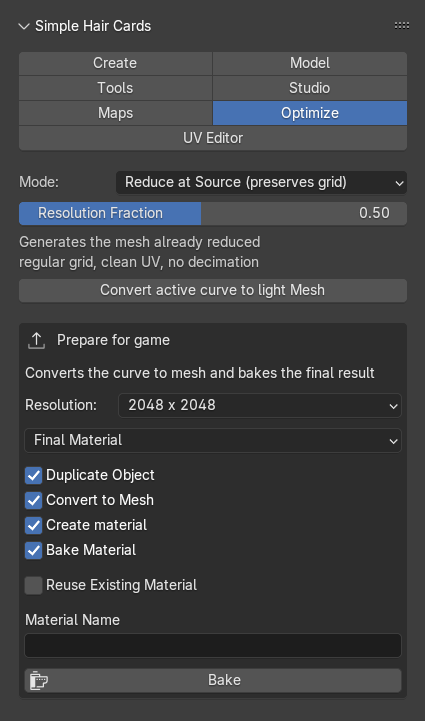
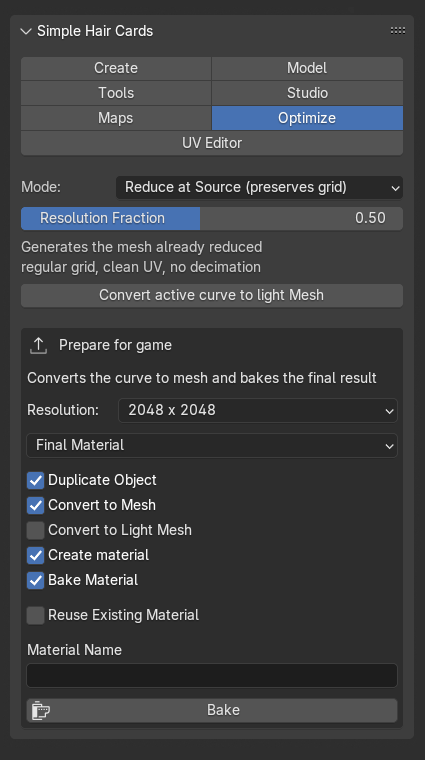
update

diff --git a/index.html b/index.html
@@ -541,8 +541,10 @@
             <ul>
               <li class="lang-pt"><strong>Duplicar objeto</strong> — trabalha numa cópia, sem mexer no original.</li>
               <li class="lang-en"><strong>Duplicate Object</strong> — works on a copy, without touching the original.</li>
-              <li class="lang-pt"><strong>Converter para Mesh</strong> — transforma o objeto (a cópia, ou o original se "Duplicar objeto" estiver desmarcado) em malha de verdade. <strong>Obrigatório</strong> se o objeto começar como Curva — o Bake do Blender só funciona em Mesh com UV, então desmarcar essa opção com "Assar Material" ativo cancela o processo com um aviso de erro.</li>
-              <li class="lang-en"><strong>Convert to Mesh</strong> — turns the object (the copy, or the original if "Duplicate Object" is unchecked) into a real mesh. <strong>Required</strong> if the object starts as a Curve — Blender's baking only works on Mesh with UV, so unchecking this while "Bake Material" is on cancels the process with an error.</li>
+              <li class="lang-pt"><strong>Converter para Mesh</strong> — transforma o objeto (a cópia, ou o original se "Duplicar objeto" estiver desmarcado) em malha de verdade, sem nenhuma redução de polígonos. <strong>Uma das duas opções de conversão é obrigatória</strong> se o objeto começar como Curva — o Bake do Blender só funciona em Mesh com UV, então deixar as duas desmarcadas com "Assar Material" ativo cancela o processo com um aviso de erro.</li>
+              <li class="lang-en"><strong>Convert to Mesh</strong> — turns the object (the copy, or the original if "Duplicate Object" is unchecked) into a real mesh, with no polygon reduction. <strong>One of the two conversion options is required</strong> if the object starts as a Curve — Blender's baking only works on Mesh with UV, so leaving both unchecked while "Bake Material" is on cancels the process with an error.</li>
+              <li class="lang-pt"><strong>Converter para Mesh Leve</strong> — mesma conversão acima, mas aplicando a redução de polígonos configurada na aba Otimizar. Marcar essa opção desmarca "Converter para Mesh" automaticamente (são mutuamente exclusivas).</li>
+              <li class="lang-en"><strong>Convert to Light Mesh</strong> — same conversion as above, but applying the polygon reduction configured in the Optimize tab. Checking this unchecks "Convert to Mesh" automatically (the two are mutually exclusive).</li>
               <li class="lang-pt"><strong>Criar Material</strong> — monta um material novo pra esse objeto. Marque <strong>"Reutilizar material existente"</strong> pra usar um material já criado antes, em vez de gerar um novo toda vez.</li>
               <li class="lang-en"><strong>Create Material</strong> — builds a new material for that object. Check <strong>"Reuse Existing Material"</strong> to use a material already created before, instead of generating a new one every time.</li>
               <li class="lang-pt"><strong>Assar Material</strong> — assa o resultado final na resolução escolhida.</li>
